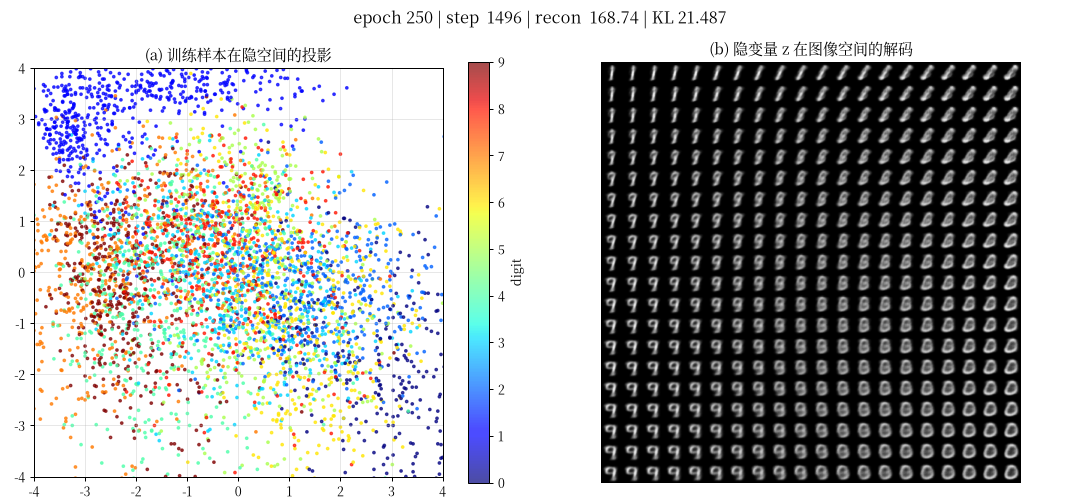
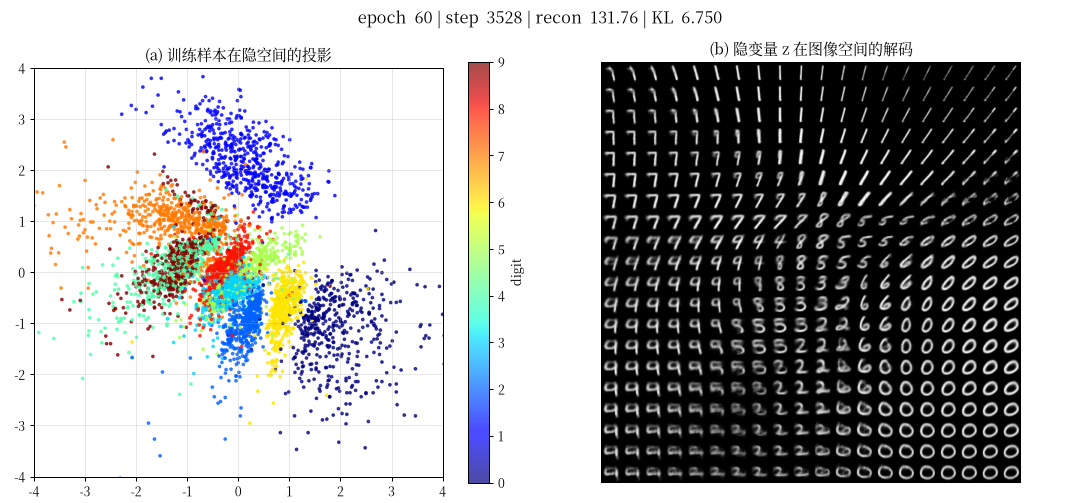
新增 Conv-64(最优)学习过程视频 + README 扫描结论
- vae_latent_learning_conv64_best.mp4：用扫描最优 Conv-64(0.885M)生成，
  隐空间分簇清晰、接近教材图16.6（对比 Conv-256 大模型版更糊）。
- 旧大模型视频改名 vae_latent_learning_conv256_big.mp4。
- 示例帧换成 Conv-64 干净版；README 加入推荐配置与参数量扫描结论表。

diff --git a/README.md b/README.md
@@ -18,14 +18,39 @@ uv pip install numpy matplotlib imageio imageio-ffmpeg scikit-learn
 
 ## 运行
 
+**推荐配置(扫描实验得到的最优,隐空间最干净):**
+
 ```bash
-python train.py --epochs 250 --batch 10240 --ch 256 --snap-every 8 --lr 3e-3 --out runs/main
+python train.py --ch 64 --epochs 60 --batch 1024 --snap-every 18 --lr 1e-3 --out runs/conv64
 ```
 
-产物在 `runs/main/`:
-- `vae_latent_learning.mp4` —— 学习过程视频
-- `frames/` —— 每一帧 PNG
-- `vae_final.pt` —— 训练好的权重
+吃满显存的大模型版(显存利用率优先,但隐空间更糊):
+
+```bash
+python train.py --ch 256 --epochs 250 --batch 10240 --snap-every 8 --lr 3e-3 --out runs/main
+```
+
+产物在 `runs/<name>/`:`vae_latent_learning.mp4`(学习过程视频)、`frames/`(每帧 PNG)、`vae_final.pt`(权重)。
+
+仓库根目录附两段成片:
+- `vae_latent_learning_conv64_best.mp4` —— **推荐**:Conv-64(0.885M),隐空间分簇清晰;
+- `vae_latent_learning_conv256_big.mp4` —— 大模型 Conv-256(13.76M),显存拉满但隐空间糊。
+
+## 参数量扫描结论(`sweep.py`)
+
+按 **生成质量(测试 ELBO↓)+ 编码质量(隐空间 kNN 准确率↑)** 综合评估 10 档模型:
+
+| 排名 | 模型 | 参数量 | ELBO↓ | kNN↑ | 综合分 |
+|---|---|---|---|---|---|
+| 🥇 1 | **Conv-64** | **0.885M** | 144.7 | **0.779** | **0.968** |
+| 2 | MLP-1024 | 3.71M | 143.9 | 0.762 | 0.940 |
+| 3 | Conv-32 | 0.23M | 145.4 | 0.764 | 0.885 |
+| 8 | Conv-256 | 13.76M | 150.1 | 0.733 | 0.593 |
+| 10 | MLP-64 | 0.11M | 156.6 | 0.637 | 0.000 |
+
+**结论:最优参数量 ≈ 0.9M(Conv-64),甜区 0.2–1M;最大的 Conv-256(13.76M)反而排第 8** ——
+2 维隐空间下容量过剩不仅无益、还轻微伤泛化。完整数据见 `docs/sweep_results.json`,
+10 组隐空间对比见 `docs/latent_compare.png`。复现:`python sweep.py`。
 
 ## 主要参数
 